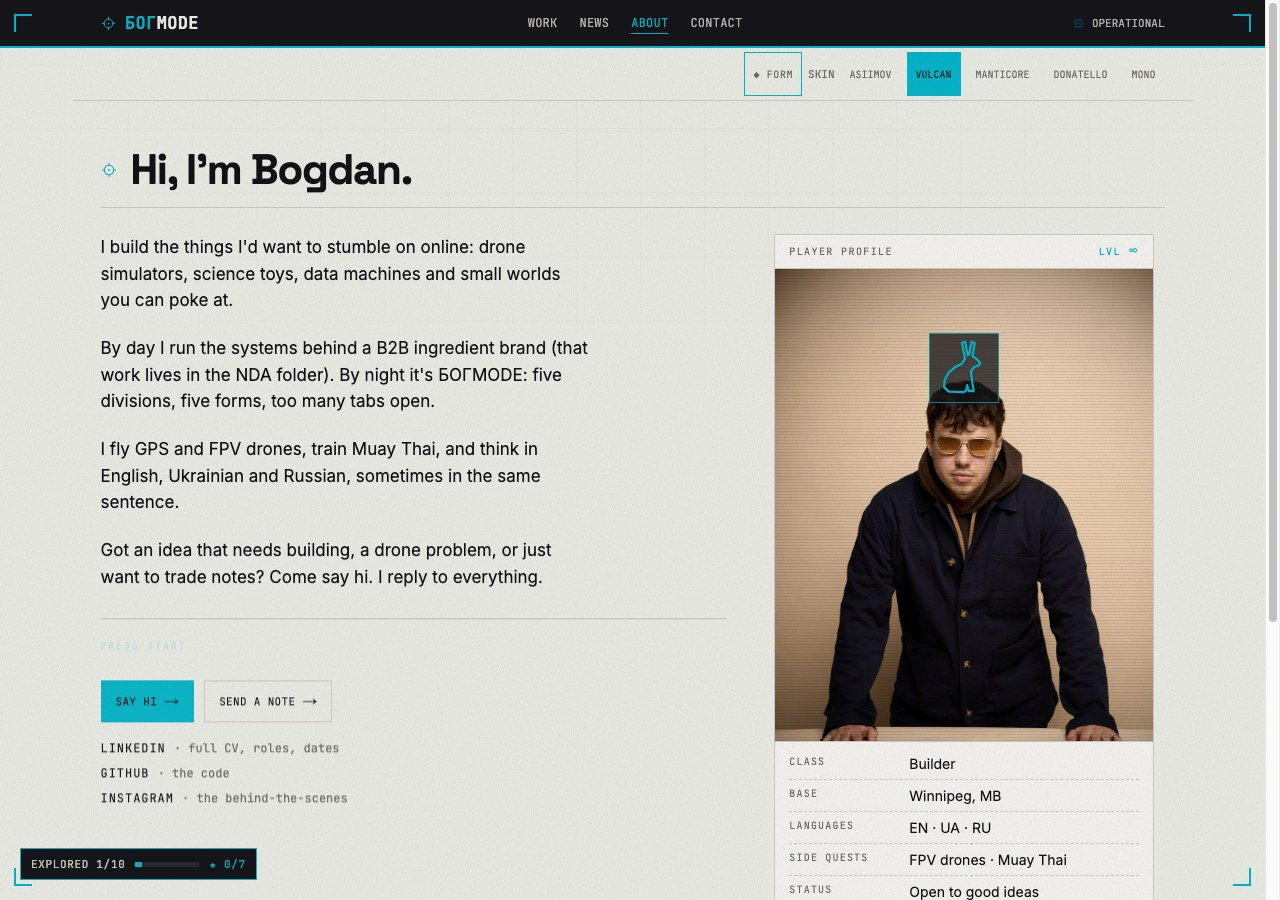
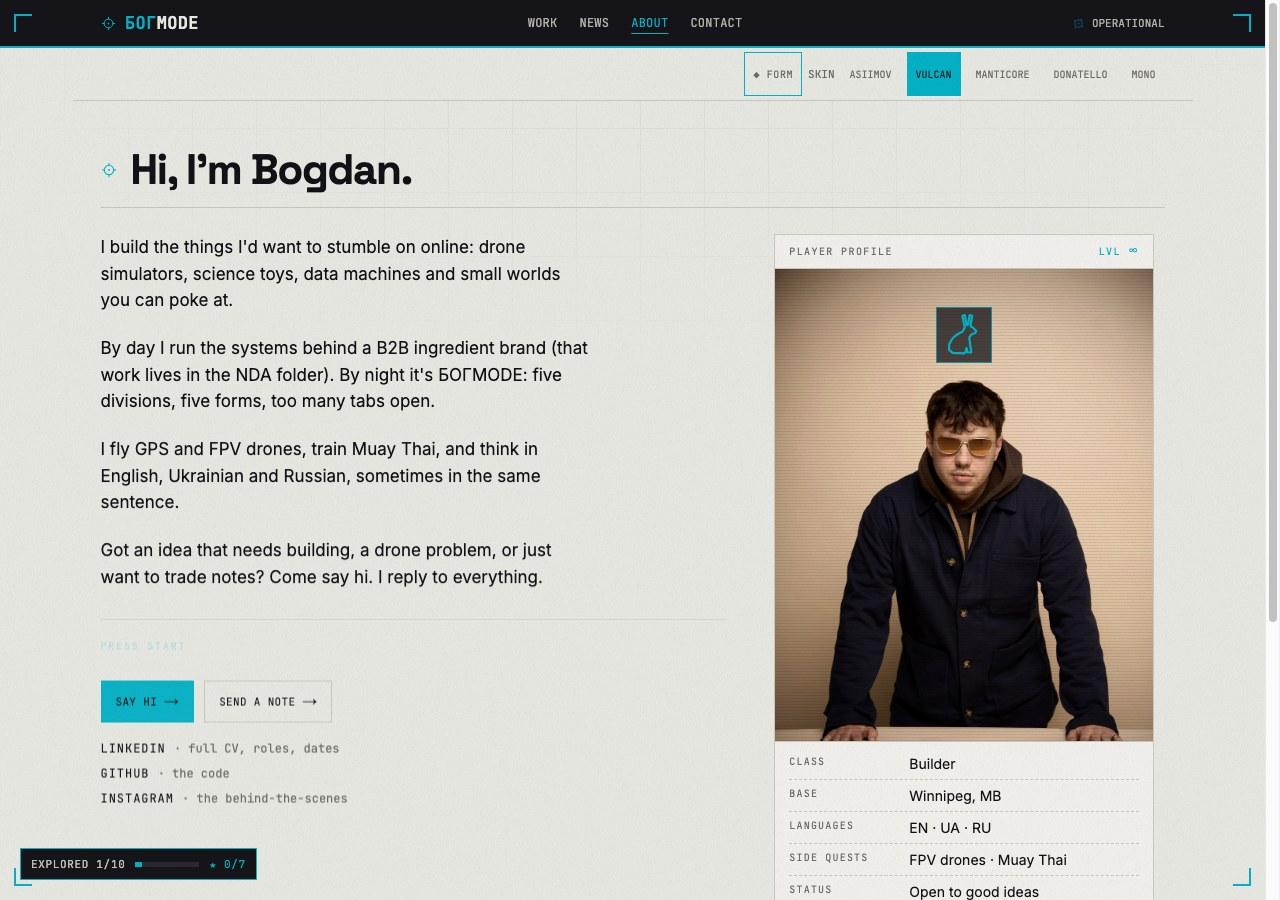
Raise and shrink About portrait mark

Changed region(s): [[0.7188, 0.3422, 0.7812, 0.4667]]

diff --git a/app/globals.css b/app/globals.css
@@ -857,7 +857,7 @@ body { background: #EDEDE8; overflow-x: hidden; }
 .bm .pc-photo { position: relative; aspect-ratio: 4 / 4.4; overflow: hidden; border-bottom: 1px solid var(--line); background: var(--block); }
 .bm .pc-photo img { width: 100%; height: 100%; object-fit: cover; display: block; filter: contrast(1.05); }
 .bm .pc-photo::after { content: ""; position: absolute; inset: 0; background: repeating-linear-gradient(0deg, rgba(0,0,0,.08) 0 1px, transparent 1px 3px); pointer-events: none; }
-.bm .pc-form-mark { position: absolute; top: 21%; left: 50%; z-index: 1; display: grid; place-items: center; width: 70px; height: 70px; transform: translate(-50%, -50%); color: var(--accent); background: color-mix(in srgb, var(--block) 76%, transparent); border: 1px solid color-mix(in srgb, var(--accent) 70%, transparent); }
+.bm .pc-form-mark { position: absolute; top: 14%; left: 50%; z-index: 1; display: grid; place-items: center; width: 56px; height: 56px; transform: translate(-50%, -50%); color: var(--accent); background: color-mix(in srgb, var(--block) 76%, transparent); border: 1px solid color-mix(in srgb, var(--accent) 70%, transparent); }
 .bm .pc-form-mark .totem-mark { color: currentColor; }
 @media (prefers-reduced-motion: no-preference) {
   .bm .pc-form-mark { animation: pc-form-change .48s cubic-bezier(.2,.7,.2,1) both; }

diff --git a/components/game/PlayerCard.js b/components/game/PlayerCard.js
@@ -20,7 +20,7 @@ export default function PlayerCard({ portrait }) {
       <div className="pc-photo">
         {portrait && <img src={portrait} alt="Bogdan, studio portrait in orange-tinted glasses and a navy work jacket" />}
         <span key={card.skin} className="pc-form-mark" role="img" aria-label={`Current profile mark: ${card.totem}`}>
-          <TotemMark totem={card.totem} size={58} />
+          <TotemMark totem={card.totem} size={44} />
         </span>
       </div>
       <dl className="pc-stats">

diff --git a/docs/devlog/2026_11_18.md b/docs/devlog/2026_11_18.md
@@ -5,4 +5,5 @@
 	- Moved the selected form mark from the portrait corner to the center above the head. It changes with the visitor's selected form and animates on change; reduced-motion users see the still state.
 	- Removed the “yours, not mine” label and row. Renamed the picker to FORM and updated the About copy to “five forms.”
 	- Verification: `npm run build` passed. Local browser review confirmed the mark stays centered and changes to the hare in VULCAN. Desktop and mobile captures are saved below.
+	- Follow-up after desktop/mobile review: lifted the mark from 21% to 14% of the photo height and reduced the frame from 70px to 56px and the icon from 58px to 44px, leaving visible space above the hairline.
 	- Screenshots: `docs/devlog/screenshots/about-portrait-mark-desktop.jpg`, `docs/devlog/screenshots/about-portrait-mark-mobile.jpg`.
